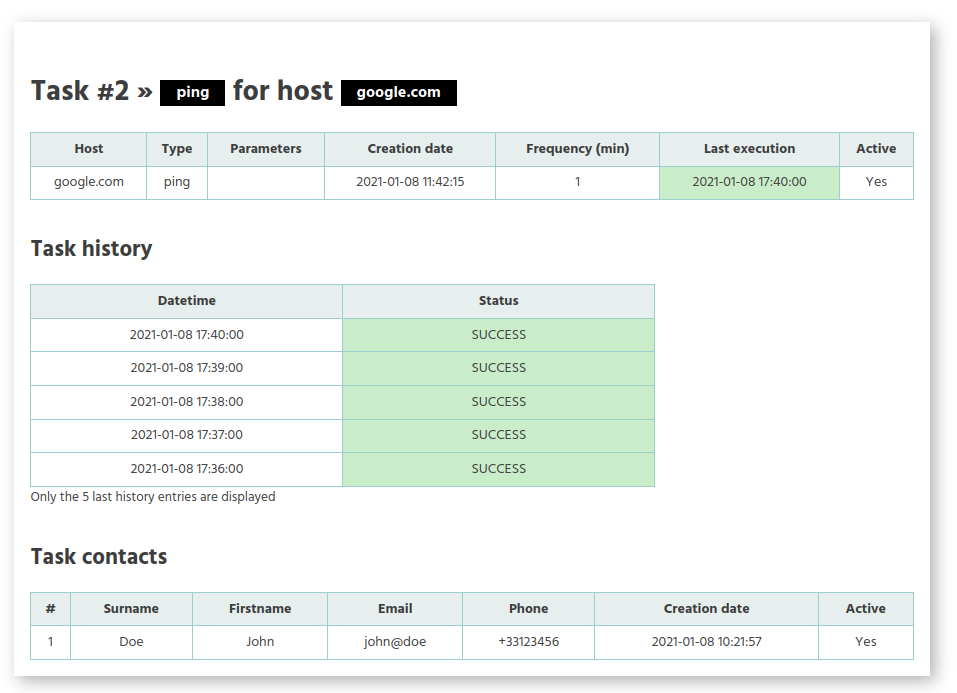
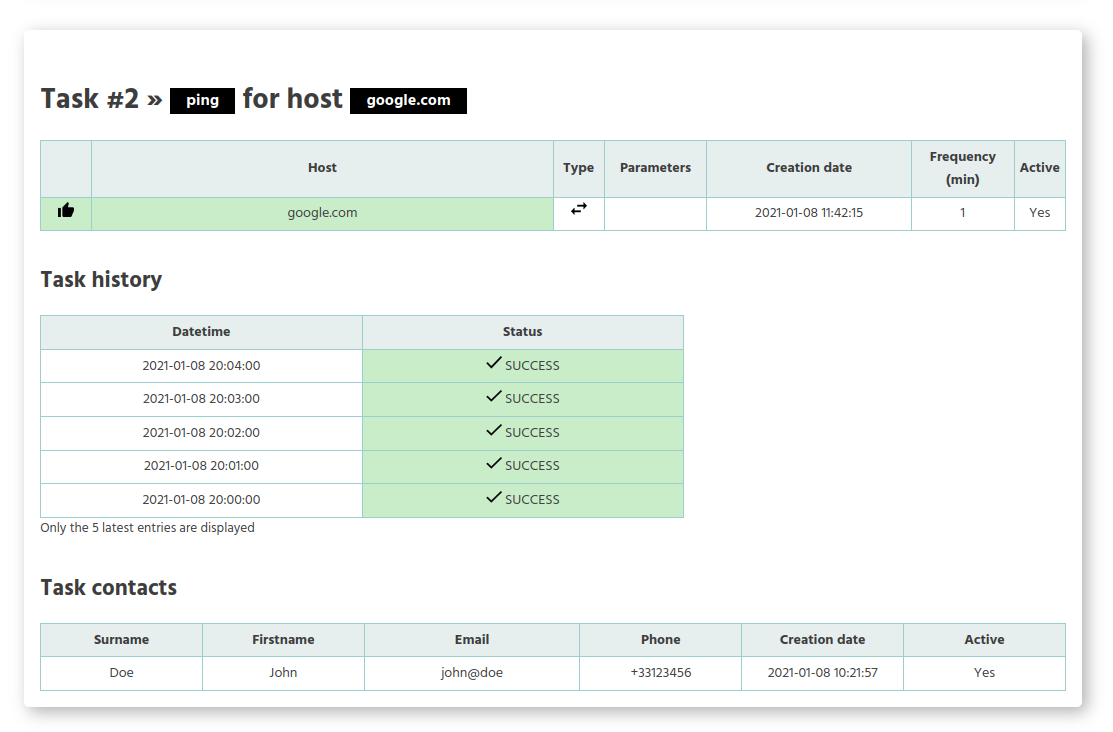
Design improvement

diff --git a/web/css/styles.css b/web/css/styles.css
@@ -73,6 +73,7 @@ td {
   -webkit-box-shadow: 5px 5px 15px 0px rgba(0,0,0,0.3);
   -moz-box-shadow: 5px 5px 15px 0px rgba(0,0,0,0.3);
   box-shadow: 5px 5px 15px 0px rgba(0,0,0,0.3);
+  border-radius: 5px;
 
 }
 

diff --git a/web/index.php b/web/index.php
@@ -19,27 +19,34 @@
 					<table id="tasks_tbl">
 						<thead>
 							<tr>
-								<th>Host</th>
-								<th>Type</th>
-								<th>Parameters</th>
-								<th>Creation date</th>
-								<th>Frequency (min)</th>
-								<th>Last execution</th>
-								<th>Active</th$query>
+								<th width="5%">&nbsp;</th>
+								<th width="*">Host</th>
+								<th width="5%">Type</th>
+								<th width="10%">Parameters</th>
+								<th width="20%">Creation date</th>
+								<th width="10%">Frequency (min)</th>
+								<th width="5%">Active</th$query>
 							</tr>
 						</thead>
 						<tbody>
 						<?php 
 							$status = $db->get_task_last_status($task['id']);
 							$color = $status == 1 ? '#c9ecc9' : '#ffc5c5'; 
+							$icon = $status == 1 ? 'up.png': 'down.png';
 						?>
 						<tr>
-							<td><?php echo $task['host']; ?></td>
-							<td><?php echo $task['type']; ?></td>
+							<td style="background-color: <?php echo $color; ?>"><img src="img/<?php echo $icon; ?>" width="16" alt="Status" /></td>
+							<td style="background-color: <?php echo $color; ?>"><?php echo $task['host']; ?></td>
+							<td>
+								<?php if ($task['type'] == 'http'): ?>
+									<img src="img/http.png" width="16" alt="Warning" title="Type: <?php echo $task['type']; ?>"/>
+								<?php elseif ($task['type'] == 'ping'): ?>
+									<img src="img/ping.png" width="16" alt="Warning" title="Type: <?php echo $task['type']; ?>"/>
+								<?php endif; ?>
+							</td>
 							<td><?php echo $task['params']; ?></td>
 							<td><?php echo $task['creation_date']; ?></td>
 							<td><?php echo ($task['frequency'] / 60); ?></td>
-							<td style="background-color: <?php echo $color; ?>"><?php echo $task['last_execution']; ?></td>
 							<td><?php echo ($task['active'] == 1) ? 'Yes' : 'No'; ?></td>
 						</tr>
 						</tbody>
@@ -63,12 +70,21 @@
 									?>
 									<tr>
 										<td width="20%" align="center"><?php echo $history['datetime']; ?></td>
-										<td width="20%" align="center" style="background-color:<?php echo $color; ?>"><?php echo $history['status'] == 1 ? 'SUCCESS' : 'ERROR'; ?></td>
+
+										<?php if ($history['status'] == 1): ?>
+											<td width="20%" align="center" style="background-color:#c9ecc9;">
+												<img src="img/success.png" width="16" alt="Success">&nbsp;SUCCESS
+											</td>
+										<?php else: ?>
+											<td width="20%" align="center" style="background-color:#ffc5c5;">
+												<img src="img/error.png" width="16" alt="Success">&nbsp;ERROR
+											</td>
+										<?php endif; ?>
 									</tr>
 								<?php endforeach; ?>
 								</tbody>
 							</table>
-							<p><small>Only the 5 last history entries are displayed</small></p>
+							<p><small>Only the 5 latest entries are displayed</small></p>
 						<?php else: ?>
 							<p class="no_result">No history found here</p>
 						<?php endif; ?>	
@@ -81,7 +97,6 @@
 							<table id="contacts_tbl">
 								<thead>
 									<tr>
-										<th>#</th>
 										<th>Surname</th>
 										<th>Firstname</th>
 										<th>Email</th>
@@ -93,20 +108,19 @@
 								<tbody>
 								<?php foreach ($contacts as $contact): ?>
 									<tr>
-										<td><?php echo $contact['id']; ?></td>
-										<td><?php echo $contact['surname']; ?></td>
-										<td><?php echo $contact['firstname']; ?></td>
-										<td><?php echo $contact['email']; ?></td>
-										<td><?php echo $contact['phone']; ?></td>
-										<td><?php echo $contact['creation_date']; ?></td>
-										<td><?php echo ($contact['active'] == 1) ? 'Yes' : 'No'; ?></td>
+										<td width="15%"><?php echo $contact['surname']; ?></td>
+										<td width="15%"><?php echo $contact['firstname']; ?></td>
+										<td width="20%"><?php echo $contact['email']; ?></td>
+										<td width="15%"><?php echo $contact['phone']; ?></td>
+										<td width="15%"><?php echo $contact['creation_date']; ?></td>
+										<td width="15%"><?php echo ($contact['active'] == 1) ? 'Yes' : 'No'; ?></td>
 									</tr>
 								<?php endforeach; ?>
 								</tbody>
 							</table>
 						<?php else: ?>
 							<p class="no_result">
-								<img src="img/warning.png" width="20" alt="Warning"/>
+								<img src="img/warning.png" width="16" alt="Warning"/>
 								No contact found here. That means that nobody will get any notification in case of an error.
 							</p>
 						<?php endif; ?>
